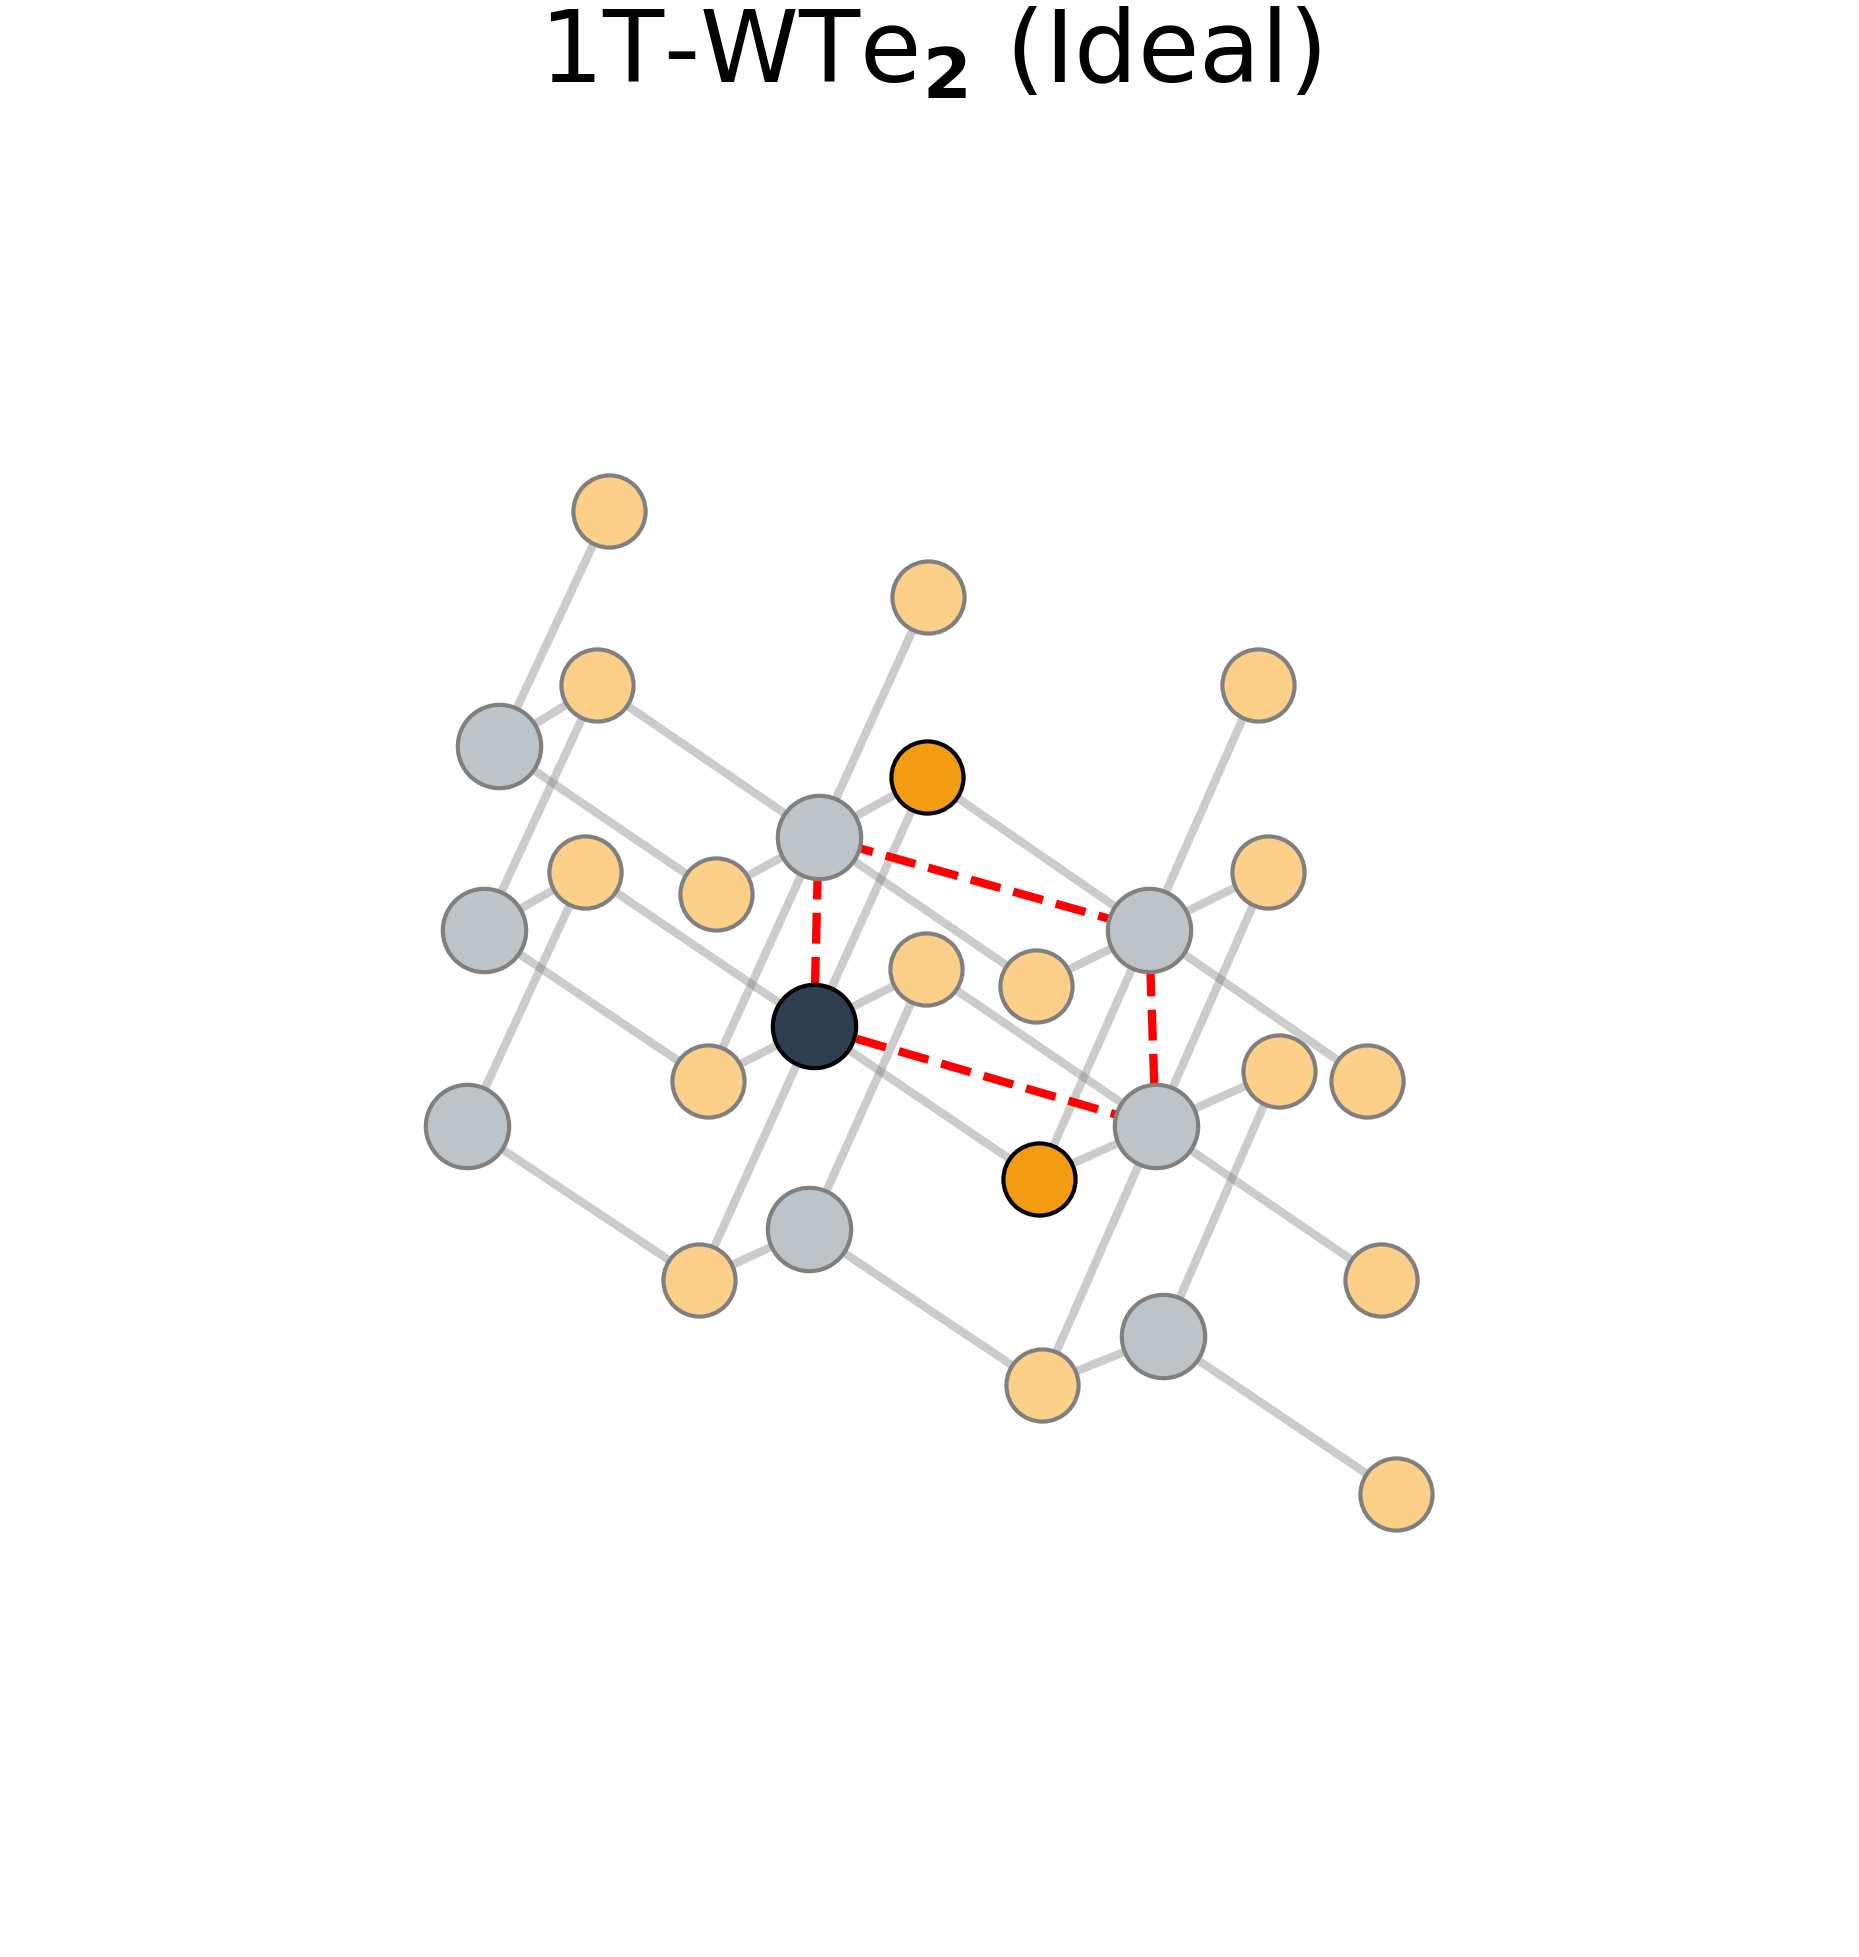
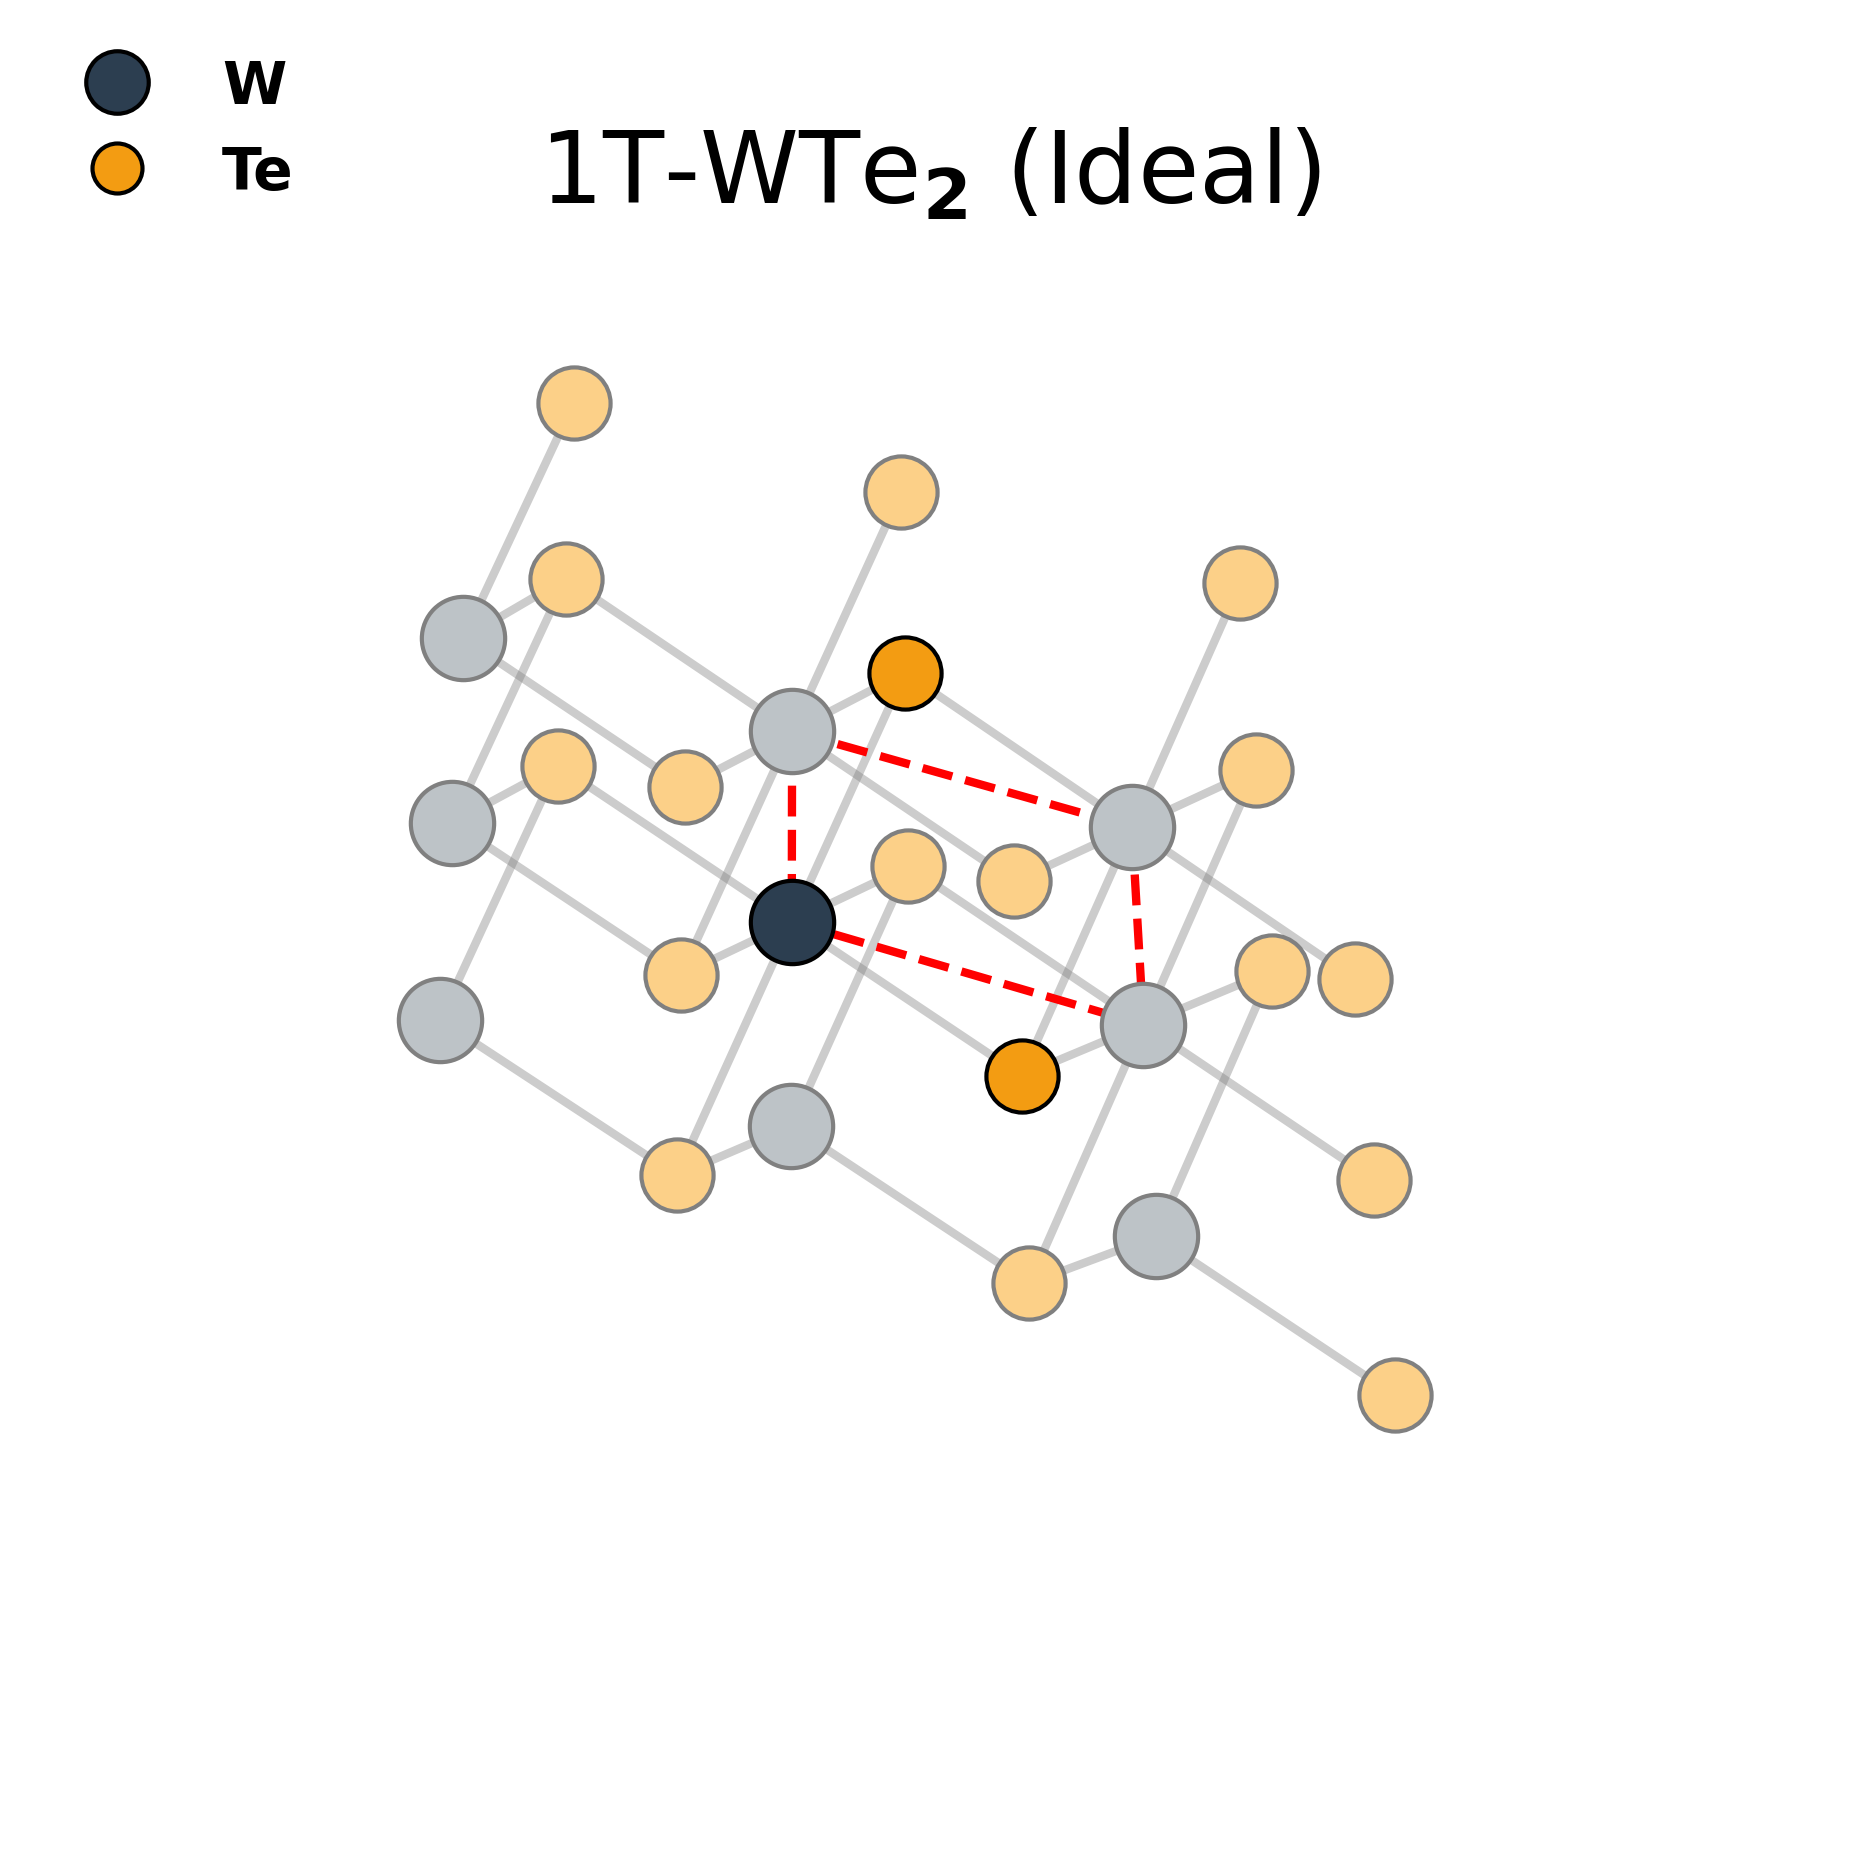
Refined 3D plot layout: Legends, Lower Title, Tighter Left Crop

diff --git a/scripts/plot_structure_3d.py b/scripts/plot_structure_3d.py
@@ -250,7 +250,8 @@ def plot_3d_structure():
     y_range = np.max(ys) - np.min(ys)
     padding = 0.5
     
-    ax.set_xlim(np.min(xs) - padding, np.max(xs) + padding)
+    # Shave off left whitespace by reducing min padding
+    ax.set_xlim(np.min(xs) - 0.1, np.max(xs) + padding)
     ax.set_ylim(np.min(ys) - padding, np.max(ys) + padding)
     ax.set_zlim(np.mean(zs) - 3, np.mean(zs) + 3)
     
@@ -258,6 +259,26 @@ def plot_3d_structure():
     # Z range is fixed at 6 (-3 to 3 relative)
     ax.set_box_aspect((x_range + 2*padding, y_range + 2*padding, 6.0))
     
+    # Labels
+    ax.set_xlabel(r"$x$ ($\AA$)", labelpad=10)
+    ax.set_ylabel(r"$y$ ($\AA$)", labelpad=10)
+    ax.set_zlabel(r"$z$ ($\AA$)", labelpad=12) # Reduced padding to bring closer
+    
+    # Title - Lowered
+    # 'y' controls vertical position (1.0 is top of box, >1 is above).
+    # Default is often >1. Let's try 0.95 or 1.0 strictly.
+    ax.set_title(r"1T'-WTe$_2$ (Distorted)", pad=-20, fontsize=24, y=1.02) 
+    
+    # Legend
+    from matplotlib.lines import Line2D
+    legend_elements = [
+        Line2D([0], [0], marker='o', color='w', label='W',
+               markerfacecolor='#2c3e50', markersize=15, markeredgecolor='black'),
+        Line2D([0], [0], marker='o', color='w', label='Te',
+               markerfacecolor='#f39c12', markersize=12, markeredgecolor='black')
+    ]
+    ax.legend(handles=legend_elements, loc='upper left', frameon=False, fontsize=14)
+
     # Turn ON Z ticks
     
     # Save

diff --git a/scripts/plot_structure_3d_1T.py b/scripts/plot_structure_3d_1T.py
@@ -194,7 +194,7 @@ def plot_1T_3d():
     y_min, y_max = ys.min(), ys.max()
     padding = 0.5
     
-    ax.set_xlim(x_min - padding, x_max + padding)
+    ax.set_xlim(x_min - 0.1, x_max + padding)
     ax.set_ylim(y_min - padding, y_max + padding)
     ax.set_zlim(-3, 3) # Z is already centered around 0 in this script
     
@@ -202,6 +202,24 @@ def plot_1T_3d():
     x_range = x_max - x_min
     y_range = y_max - y_min
     ax.set_box_aspect((x_range + 2*padding, y_range + 2*padding, 6.0))
+    
+    # Labels
+    ax.set_xlabel(r"$x$ ($\AA$)", labelpad=10)
+    ax.set_ylabel(r"$y$ ($\AA$)", labelpad=10)
+    ax.set_zlabel(r"$z$ ($\AA$)", labelpad=12)
+    
+    # Title
+    ax.set_title(r"1T-WTe$_2$ (Ideal)", pad=-20, fontsize=24, y=1.02)
+    
+    # Legend
+    from matplotlib.lines import Line2D
+    legend_elements = [
+        Line2D([0], [0], marker='o', color='w', label='W',
+               markerfacecolor='#2c3e50', markersize=15, markeredgecolor='black'),
+        Line2D([0], [0], marker='o', color='w', label='Te',
+               markerfacecolor='#f39c12', markersize=12, markeredgecolor='black')
+    ]
+    ax.legend(handles=legend_elements, loc='upper left', frameon=False, fontsize=14)
     
     out_dir = os.path.dirname(os.path.abspath(__file__)) + "/../figures"
     if not os.path.exists(out_dir): os.makedirs(out_dir)
